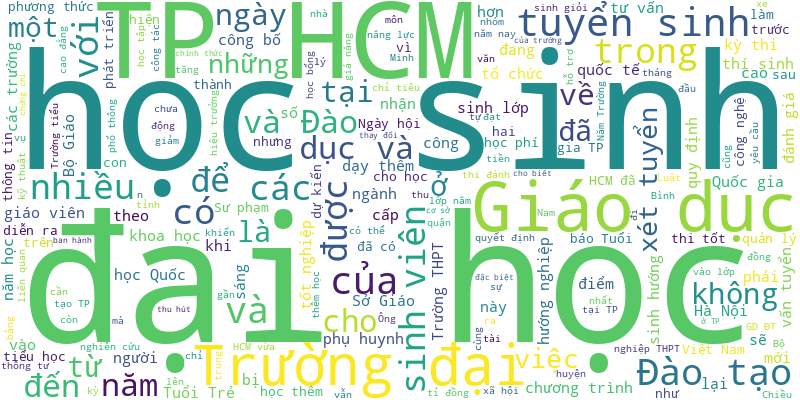
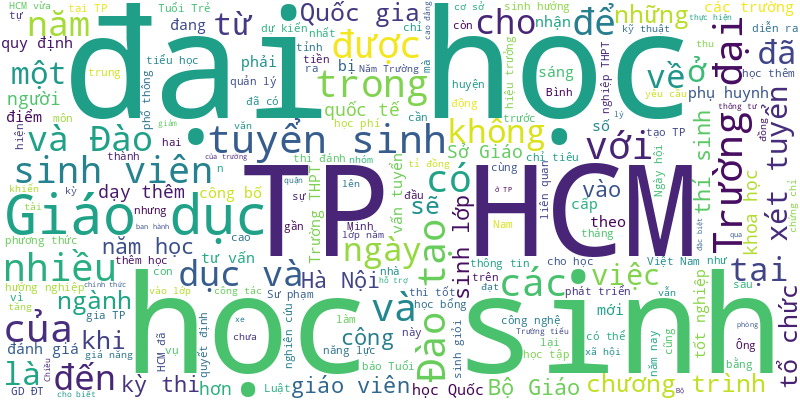
🍀 = 10%

diff --git a/README.md b/README.md
@@ -1,6 +1,17 @@
 # Tuoi Tre RSS 
 
 ## Giáo dục 
+- Bộ GD-ĐT đã có tờ trình Chính phủ báo cáo đánh giá sơ kết thực hiện Luật Giáo dục đại học giai đoạn 2019-2024.
+- Để xảy ra chuyện nữ sinh tiểu học hút thuốc lá trong sân trường, trách nhiệm quản lý, giáo dục trẻ là của nhà trường hay gia đình?
+- Nhiều bạn đọc cho biết thực tế vẫn phải 'xác nhận cư trú' trong tuyển sinh đầu cấp tại TP.HCM.
+- Ngày 4-4, Trường đại học Quốc tế Sài Gòn (SIU) tổ chức tọa đàm IAPP Vietnam Partnership Roundtable in HCMC.
+- Ngày 2-4, ông Tạ Hồng Lựu - phó giám đốc Sở Giáo dục và Đào tạo Thanh Hóa - vừa ký công văn gửi UBND huyện Quan Hóa, để chỉ đạo phòng chức năng xử lý vụ việc hiệu trưởng nói giáo viên là 'gái bao'.
+- "Cô mất Giang rồi, từ nay con mãi dừng lại tuổi 18, thương con vô cùng" - là dòng chia sẻ của cô Nguyễn Thị Bích Thảo, giáo viên Trường phổ thông dân tộc bán trú THCS Trà Sơn, khi cô học trò nhỏ bệnh tật qua đời.
+- Nhiều phụ huynh có con học lớp 5 tại Huế bày tỏ sự không đồng tình với tiêu chí tuyển sinh của một trường THCS hàng đầu trên địa bàn.
+- Nhiều năm liên tiếp, khối ngành kinh doanh, quản lý tuyển sinh áp đảo khối ngành kỹ thuật công nghệ. Phải chăng vì có quá nhiều trường đại học chuyên đào tạo kinh tế?
+- Hội đồng thi đánh giá năng lực Đại học Quốc gia TP.HCM đợt 1 năm 2025 tại cụm thi An Giang đã xin lỗi các thí sinh thi bị gần 20 phút làm bài do giám thị phát nhầm mã đề thi và sẽ miễn phí thi đợt 2 cho các em.
+- Một công thức quy đổi điểm tương đương không được xây dựng dựa trên cơ sở khoa học thì không thể giúp công tác tuyển sinh được công bằng hơn, mà có thể tạo thêm sự mất công bằng.
+- Năm nay, các trường Công an nhân dân sẽ không tuyển thẳng thí sinh có chứng chỉ IELTS từ 7.5, mà mở rộng xét tuyển thí sinh có chứng chỉ IELTS từ 5.5.
 - Điểm trung bình của hai đợt thi đánh giá năng lực tháng 3 tăng từ 3-5 điểm so với cùng thời điểm năm ngoái, GS.TS Nguyễn Tiến Thảo lý giải năm nay các thí sinh được lựa chọn phần thi khoa học hoặc tiếng Anh theo năng lực và sở trường.
 - Để phát triển nhân tài khoa học lĩnh vực khoa học cơ bản và khoa học liên ngành, Đại học Quốc gia TP.HCM đề xuất miễn học phí, cấp học bổng cho sinh viên, học viên sau đại học theo học các ngành khoa học cơ bản.
 - Bộ Giáo dục và Đào tạo vừa công bố danh mục các phương thức xét tuyển năm 2025 do bộ quy định, ít hơn 3 phương thức so với năm ngoái.
@@ -993,19 +1004,85 @@ Trường đại học Văn Lang được QS xếp hạng top 51-100 thế giớ
 - Chiều 4-12, học sinh Trường THCS Bình Trị Đông (quận Bình Tân, TP.HCM) đến tham quan và học tập thực tế tại Nhà máy mì Acecook Việt Nam.
 - Báo Tuổi Trẻ cùng nhà tài trợ đã trao 200 học bổng "Gieo mầm tri thức" cho học trò Đắk Lắk để các em "đi đến tương lai".
 - Sở Giáo dục và Đào tạo TP.HCM cho biết đã có tờ trình xin UBND TP tăng ngày nghỉ Tết Ất Tỵ cho học sinh thêm 2 ngày.
-- Sở Giáo dục và Đào tạo TP.HCM vừa có tờ trình về việc tăng thêm số ngày nghỉ Tết Ất Tỵ 2025 cho học sinh, làm phụ huynh phải thay đổi kế hoạch.
-- Theo lịch nghỉ Tết Ất Tỵ của nhiều trường đại học, đa số các trường cho sinh viên nghỉ Tết từ 2-3 tuần. Không ít trường cho sinh viên nghỉ 4-6 tuần.
-- Sở Giáo dục và Đào tạo TP.HCM cho biết đã có tờ trình UBND TP về việc thay đổi thời gian nghỉ Tết Nguyên đán 2025.
-- Dự thảo thông tư quy chế tuyển sinh trình độ đại học, cao đẳng ngành giáo dục mầm non của Bộ GD-ĐT quy định chỉ tiêu xét tuyển sớm do trường quy định nhưng không vượt quá 20% chỉ tiêu của từng ngành, nhóm ngành đào tạo.
-- Sau khi bị nhóm học sinh đánh hội đồng, nữ sinh L.V.G.N., 16 tuổi, học sinh lớp 11A6 Trường THPT Nông Cống 2, huyện Nông Cống, tỉnh Thanh Hóa, tổn thương sức khỏe 23%, hiện đi lại khó khăn, phải nghỉ học.
-- Nhiều bạn đọc, trong đó có những người đã và đang là sinh viên học tại Trường đại học Y khoa Phạm Ngọc Thạch (TP.HCM) đều bất bình với mức phí giữ xe hiện tại ở trường này.
-- Chủ tịch Hội đồng giải thưởng VinFuture, giáo sư Richard Henry Friend, chia sẻ giải thưởng năm nay nhận được nhiều đề cử xuất sắc, trong đó có một đề cử từ Việt Nam.
-- "Chỉ cần bạn nỗ lực, mọi thứ đều có thể làm được" - đó là triết lý mà Nguyễn Tuấn Nam (26 tuổi, quê Hà Tĩnh) luôn ghi nhớ để từ số 0 trở thành sinh viên xuất sắc tại Nhật Bản.
-- Để học sinh khiếm thị hình dung về hình học không gian, cô Phạm Thị Thanh Tâm cùng học trò dành 12 tháng nghiên cứu, làm bộ mô hình toán học.
-- Số sinh viên quốc tế đang học tập tại Việt Nam hiện còn quá thấp so với mục tiêu của Chính phủ đặt ra là đến năm 2020 phải thu hút khoảng 66.000 sinh viên quốc tế.
-- Dự thảo thông tư xác định chỉ tiêu tuyển sinh đại học do Bộ đưa ra lấy ý kiến có nhiều điểm mới so với thông tư trước đây. Lợi cũng có mà hại cũng nhiều.
 ![Edu](Edu.png)
 ## Thời Sự 
+- Sáng sớm 3-4, người phụ nữ đi xe đạp tập thể dục trên đường Phan Văn Khải (huyện Củ Chi, TP.HCM) đã va chạm với xe container, bị cán tử vong tại chỗ.
+- Tổng Bí thư Tô Lâm sẽ dẫn đầu đoàn đại biểu cấp cao sang Vientiane ngày 3-4 để viếng nguyên Chủ tịch Đảng Nhân dân cách mạng Lào, nguyên Chủ tịch nước Lào Khamtai Siphandone.
+- Tin tức đáng chú ý: Cơ quan thời tiết ứng dụng AI dự báo, cảnh báo thiên tai; Lưu ý khi đầu tư bất động sản theo tin sáp nhập; Tập đoàn R&amp;H khất nợ lãi lô trái phiếu 2.000 tỉ...
+- Hôm nay 3-4, thời tiết Bắc Bộ có sương mù, trời hửng nắng. Nam Bộ nắng nóng quay trở lại sau nhiều ngày mưa.
+- Ông Nguyễn Duy Ngọc - chủ nhiệm Ủy ban Kiểm tra Trung ương - đề nghị Đảng bộ, chính quyền và nhân dân tỉnh Khánh Hòa tiếp tục phát huy hiệu quả mọi nguồn lực, phấn đấu xây dựng tỉnh phát triển.
+- Nghe tiếng kêu của cô gái, nhóm thanh niên lao xuống sông cứu người này lên bờ an toàn.
+- Phó thủ tướng, Bộ trưởng Ngoại giao Bùi Thanh Sơn đang ở Nga để chuẩn bị cho chuyến thăm và dự lễ duyệt binh 80 năm Chiến tranh vệ quốc của Tổng Bí thư Tô Lâm.
+- Phó thủ tướng yêu cầu các cơ quan chức năng liên quan xác định nguyên nhân lúa chết bất thường cạnh cao tốc Cần Thơ - Cà Mau.
+- Phó thủ tướng thường trực Nguyễn Hòa Bình yêu cầu tập trung gỡ khó cho hạng mục bảo dưỡng, sửa chữa máy bay tại Cảng hàng không quốc tế Vân Đồn.
+- Chiều 2-4, trong khuôn khổ chuyến thăm cấp nhà nước đến Việt Nam, Nhà vua Vương quốc Bỉ Philippe và Hoàng hậu Mathilde cùng đoàn đại biểu cấp cao của Vương quốc Bỉ đã thăm và làm việc tại TP Hải Phòng.
+- Các khối diễu binh, diễu hành của Bộ Quốc phòng sẽ di chuyển vào miền Nam thành năm đoàn, trong đó có bốn đoàn hành quân bằng tàu hỏa.
+- Phó thủ tướng Nguyễn Hòa Bình cho biết công tác tinh gọn và sắp xếp lại bộ máy nhằm phát huy thế mạnh cho các địa phương.
+- Để xảy ra chuyện nữ sinh tiểu học hút thuốc lá trong sân trường, trách nhiệm quản lý, giáo dục trẻ là của nhà trường hay gia đình?
+- Hiện nhiều cư dân các phường ở TP Nha Trang không có 'dự án treo' cũng bị 'treo' cấp phép xây dựng trên đất ở hợp pháp, chỉ có thể xây nhà tạm.
+- Nam thanh niên ở tỉnh Quảng Nam đã đột nhập nhà dân, đục phá két sắt, trộm cắp hàng chục nhẫn vàng, dây chuyền, tiền mặt với tổng trị giá hơn 1 tỉ đồng.
+- Chủ tịch UBND TP.HCM Nguyễn Văn Được nhìn nhận TP.HCM cần phấn đấu nhiều để tăng trưởng liên tục, TP.HCM không nên chủ quan.
+- Phải tin tưởng vào kinh tế tư nhân, đặt niềm tin, tạo động lực, truyền cảm hứng cho họ phát triển, khuyến khích mọi người dân làm giàu chính đáng.
+- Người dân ở xã Thạnh Hòa (huyện Giồng Riềng, tỉnh Kiên Giang) phấn khởi khi nuôi cá chạch lấu trong ao đất bán với giá cao khoảng 250.000 đồng/kg, mang lại nguồn lợi nhuận hấp dẫn.
+- Chiều 2-4, hai tuyến quốc lộ huyết mạch về miền Tây là tuyến quốc lộ 60 và quốc lộ 1, đoạn qua TP Mỹ Tho, tỉnh Tiền Giang bị ngập nặng do triều cường khiến người dân đi lại khó khăn, kẹt xe kéo dài.
+- Bí thư Nguyễn Văn Nên cho rằng tinh gọn bộ máy phải đảm bảo hoạt động thông suốt.
+- Có ý kiến đề xuất do chung dòng Vàm Cỏ Đông, có thể lấy tên này đặt luôn cho hai tỉnh Long An và Tây Ninh khi sáp nhập.
+- Nhà vua Vương quốc Bỉ Philippe và Hoàng hậu Mathilde đã tham dự lễ khai trương tổ hợp văn phòng dịch vụ KCN Bắc Tiền Phong tại Quảng Yên.
+- Sau nhiều năm đề nghị UBND huyện Tương Dương, Nghệ An trả nợ gần 45 triệu đồng không được, một chủ nhà hàng lên mạng xã hội kêu cứu.
+- Bí thư Nguyễn Văn Nên cho rằng động đất ở Myanmar cũng là cảnh báo mà các cơ quan quản lý ở TP.HCM phải lưu ý với các công trình xây dựng.
+- Đây là ý kiến Viện trưởng Viện Nghiên cứu phát triển TP.HCM Trương Minh Huy Vũ nêu ra, về các cực tăng trưởng kinh tế của TP.HCM.
+- Đề án yêu cầu ban hành chủ trương và kết luận phân loại xử lý cán bộ, đảng viên vi phạm theo hướng bảo vệ những cán bộ dám nghĩ dám làm.
+- Một dãy nhà liền kề cặp ven sông ở phường Vĩnh Hiệp (TP Rạch Giá, Kiên Giang) chiều nay bất ngờ xảy ra cháy lớn.
+- Các nữ chiến sĩ bước vào giai đoạn nước rút tập luyện, chuẩn bị cho cuộc diễu binh dịp 30-4 sắp tới.
+- Thành phố Đà Lạt tôn vinh 50 gia đình có công với cách mạng nhân kỷ niệm 50 năm Ngày giải phóng Đà Lạt (3-4-1975).
+- Bộ Xây dựng lấy ý kiến sửa nghị định theo hướng bổ sung máy bay do nhà chức trách hàng không Trung Quốc cấp giấy chứng nhận.
+- Ông Vũ Quyết Tiến được Ban Bí thư Trung ương Đảng chuẩn y giữ chức phó bí thư Tỉnh ủy Quảng Ninh.
+- Đoạn clip ghi cảnh một chiếc xe tải chở hàng ở Huế liều lĩnh tông gãy gác chắn, lao qua đường sắt khi có đoàn tàu hỏa đang lao tới với tốc độ cao.
+- Chiều 2-4, đội cứu nạn, cứu hộ Bộ Công an Việt Nam tiếp tục tìm thấy một nạn nhân nữ đã tử vong trong ngôi nhà 4 tầng ở thị trấn Zabu Thiri (Myanmar).
+- Tại buổi làm việc với chính quyền tỉnh Quảng Trị, Đại sứ Mỹ Marc E. Knapper cho biết đang đề xuất cấp thêm ngân sách cho các hoạt động rà phá bom mìn sau năm 2025.
+- Công an phường Đông Lương (TP Đông Hà, tỉnh Quảng Trị) đã triệu tập 3 thanh niên chặn xe taxi Xanh SM đe dọa và đập phá xe đến làm việc.
+- Thiếu tướng Nguyễn Đình Hoàn đã đến kiểm tra hiện trường vụ cháy tại phường Xóm Củi, quận 8, TP.HCM.
+- Sau hơn 124 giờ bị chôn vùi, anh Htet Maung Maung đã được lực lượng cứu hộ của Việt Nam, Myanmar, Thổ Nhĩ Kỳ đưa lên xe cấp cứu.
+- Ngày 2-4, Tỉnh ủy Quảng Nam tổ chức hội nghị lần thứ 19 đánh giá tình hình các mặt công tác quý 1-2025, triển khai nhiệm vụ trọng tâm quý 2.
+- Sau nhiều phản ánh của người dân và cử tri, đến nay việc khắc phục tình trạng cây xanh chết khô, trụi lá trên tuyến đường 500 tỉ đồng ở Đà Nẵng đang được khắc phục.
+- Bia Ma Nhai khắc vào núi đá có niên đại gần 700 năm ở tỉnh Nghệ An ghi lại chiến công của nhà Trần trong việc giữ gìn bờ cõi, chinh phạt ngoại xâm.
+- Tỉnh Quảng Nam yêu cầu báo cáo danh sách cán bộ, công chức có đơn đăng ký nghỉ hưu trước tuổi, nghỉ thôi việc.
+- Liên quan vụ hành hung bác sĩ tại đơn vị hồi sức cấp cứu thuộc Trung tâm Y tế huyện Chư Sê, tỉnh Gia Lai vào ngày 31-3, Cục Quản lý khám chữa bệnh (Bộ Y tế) vừa có công văn gửi giám đốc Sở Y tế tỉnh này.
+- Sở Giao thông công chánh và Sở Xây dựng đã phối hợp xử lý nghiêm các nhà thầu thi công cải tạo vỉa hè không đúng quy trình, ảnh hưởng cây xanh.
+- Sau nhiều giờ nỗ lực giải cứu, công binh Việt Nam và lực lượng cứu hộ các nước đã đưa được thanh niên 26 tuổi ra ngoài sau hơn 5 ngày bị mắc kẹt.
+- Công an đã mời 3 người liên quan vụ chặn xe, đe dọa và xô xát khiến bé trai 2 tuổi ở Đồng Nai bị thương.
+- Thành phố Cần Thơ giữ nguyên quyết định thu hồi đất mà chủ đầu tư được cho thuê để thực hiện dự án thiên đường nước Cần Thơ.
+- Chỉ trong hai ngày, hai con cá voi cỡ nhỏ đã liên tiếp dạt vào bờ biển Nhật Lệ và Bảo Ninh (TP Đồng Hới, Quảng Bình) khiến ngư dân địa phương vô cùng lo lắng.
+- Thay mặt Chính phủ, Thủ tướng Chính phủ, Phó thủ tướng thường trực Nguyễn Hòa Bình gửi lời thăm hỏi, chia buồn sâu sắc tới thân nhân, gia đình người bị nạn trong vụ cháy nhà dân tại Xóm Củi, TP.HCM.
+- Liên quan đến đại án cây xanh của Công ty cây xanh Công Minh tại Quảng Bình, đến nay công an tỉnh này đã khởi tố tổng cộng 22 bị can liên quan.
+- Đồng Nai kiến nghị Thủ tướng xem xét chấp thuận phương án đầu tư xây dựng cầu Mã Đà và đường kết nối Bình Phước quy mô 4 làn xe (giai đoạn 1).
+- Sáng 2-4, tại Trường Quân khu 7 (quận 12, TP.HCM), 7 khối chiến sĩ đã bước vào buổi hợp luyện cuối cùng trước khi tập trung về Biên Hòa cho đợt tổng hợp luyện quan trọng chuẩn bị cho lễ diễu binh dịp 30-4 sắp tới.
+- Các lực lượng cứu hộ Việt Nam đang tiếp cận giải cứu 1 nạn nhân còn sống, có thể nói chuyện được tại Bệnh viện Ottara Thiri, thủ đô Naypyidaw, Myanmar.
+- Sáng 2-4, Tổng Bí thư Tô Lâm đã chủ trì hội nghị Quân ủy Trung ương lần thứ 13 để xem xét, cho ý kiến vào đề án về tổ chức quân sự địa phương tinh, gọn, mạnh.
+- Thứ trưởng Bộ Ngoại giao Đỗ Hùng Việt và Đại sứ Mỹ Marc E. Knapper thăm hiện trường hủy nổ bom mìn của tổ chức PeaceTrees Vietnam, cùng chứng kiến những công việc tỉ mẫn để tìm kiếm quân nhân Mỹ mất tích trong chiến tranh.
+- Người dân phường Hòa Hiệp Nam (thị xã Đông Hòa, Phú Yên) phát hiện một thi thể nam không đầu, ở thời kỳ phân hủy nặng trôi dạt vào bờ biển địa phương.
+- Chính phủ ban hành nghị định thí điểm thực hiện dự án nhà ở thương mại thông qua thỏa thuận về nhận quyền sử dụng đất hoặc đang có quyền sử dụng đất.
+- Luật Bảo hiểm y tế sửa đổi quy định không chi trả chi phí khám chữa bệnh bảo hiểm y tế cho một số trường hợp.
+- Ghi nhận của Tuổi Trẻ Online ngày 2-4 tại một số chi nhánh của Trung tâm phục vụ hành chính công Hà Nội, ngay từ sáng sớm đã có rất đông người dân xếp hàng dài đợi lấy số thứ tự để xử lý thủ tục hành chính.
+- Bà Trần Thị Chánh - mẹ và bà ngoại của 3 nạn nhân xấu số trong vụ cháy nhà tại quận 8 - ngồi bần thần, rớm nước mắt, miệng thì thầm 'thấy cháy mà không làm được gì cô chú ơi, con và cháu tôi còn trong đó'.
+- Giấy chứng nhận đã cấp vi phạm thời hạn sử dụng đất đối với đất sản xuất kinh doanh tại Đà Nẵng nay phải xác định lại thành 50 năm sẽ được thực hiện theo trình tự ra sao?
+- Tỉnh Bà Rịa - Vũng Tàu dự kiến sẽ dành hơn 350 tỉ đồng để giải quyết chế độ cho hơn 400 công chức, viên chức, người lao động nghỉ hưu trước tuổi, thôi việc.
+- Bộ trưởng Bộ Công an đã quyết định thưởng đột xuất cho các phòng nghiệp vụ của Công an tỉnh Quảng Nam về thành tích xuất sắc trong điều tra, nhanh chóng bắt giữ người giết vợ, phi tang xác xuống biển.
+- Các thủ tục về triển khai dự án đường sắt Thủ Thiêm - Long Thành, đường sắt kết nối trung tâm với Cần Giờ đang được TP.HCM đẩy nhanh tiến độ.
+- UBND TP.HCM vừa ban hành kế hoạch tổng thể lễ kỷ niệm, diễu binh, diễu hành và các hoạt động kỷ niệm 50 năm Ngày Giải phóng miền Nam, thống nhất đất nước (30-4-1975 - 30-4-2025).
+- Doanh nghiệp và hiệp hội Việt Nam xuất khẩu sang Mỹ kỳ vọng quan hệ thương mại tốt đẹp và cơ cấu không cạnh tranh trực tiếp sẽ giúp hàng hóa tránh thuế đối ứng từ chính quyền Trump.
+- Nhiều ý kiến bày tỏ ủng hộ chủ trương sáp nhập tỉnh thành, đồng thời hiến kế để Tây Nguyên và Nam Trung Bộ kết nối rừng với biển, mở ra không gian phát triển mới.
+- Sau hơn nửa ngày xảy ra vụ việc, nghi can bị cảnh sát bắt giữ tại vị trí cách nơi xảy ra sự việc khoảng 400km.
+- Ban Thường vụ Tỉnh ủy Quảng Nam ban hành kế hoạch tiếp tục sắp xếp tổ chức bộ máy của hệ thống chính trị theo các kết luận số 126, số 127 của Bộ Chính trị, Ban Bí thư.
+- Tuyến đường 23-9 bị tụt sâu, nguy cơ trôi cả mảng đất lớn xuống dãy dân cư ở phía dưới chân ta luy, đe dọa đến cuộc sống của 31 hộ phường Pom Hán, thành phố Lào Cai.
+- Hiện trường vụ cháy nhà ở quận 8 (TP.HCM) tan hoang, một căn nhà bị thiêu rụi hoàn toàn. Những căn nhà xung quanh cũng chịu ảnh hưởng nặng nề, mái tôn cong vênh, biến dạng sau cơn lửa dữ.
+- Theo thông tin của đoàn công tác cứu hộ Bộ Quốc phòng, hôm nay 2-4, các lực lượng tiếp tục tìm kiếm khu vực được thông tin có khoảng 40 nạn nhân bị vùi lấp sau trận động đất ở Myanmar.
+- Phòng Cảnh sát giao thông Công an tỉnh Quảng Nam đã lập biên bản vi phạm hành chính hai người Hàn Quốc buông hai tay khi lái mô tô phân khối lớn.
+- Ngoài phê bình đích danh các đơn vị chậm tiến độ thi công dự án thành phần 4 cao tốc Châu Đốc - Cần Thơ - Sóc Trăng, chủ tịch UBND tỉnh Sóc Trăng sẽ kiên quyết xử lý, thay thế nhà thầu yếu kém, không thực hiện đúng trách nhiệm.
+- Tăng cường kết nối với Vương quốc Bỉ, Việt Nam không chỉ mở rộng cánh cửa vào thị trường châu Âu mà còn khẳng định vai trò chiến lược tại khu vực thông qua quan hệ đối tác với quốc gia nhỏ bé nhưng giàu ảnh hưởng này.
+- Rái cá vuốt bé là loài vật quý hiếm, cần được bảo vệ và nằm trong sách đỏ Việt Nam. Chúng hiện còn sinh sống trong tự nhiên ở Vườn quốc gia Phú Quốc.
+- Ông Đỗ Vinh Quang, con trai bầu Hiển, trở thành chủ tịch hội đồng quản trị hãng hàng không Vietravel Airlines.
+- Bộ trưởng Bộ Nội vụ Phạm Thị Thanh Trà cho hay từ ngày 1-5, 63 tỉnh, thành phố sẽ gửi đề án sắp xếp về bộ để tiếp đó trình Ủy ban Thường vụ Quốc hội, Quốc hội.
 - Sáng 2-4, ông Nguyễn Văn Được, chủ tịch UBND TP.HCM, có mặt tại hiện trường vụ cháy nhà ở Xóm Củi, quận 8 chỉ đạo khắc phục hậu quả, khẩn trương điều tra vụ cháy.
 - Bộ Nội vụ đang dự thảo thông tư quy định thời điểm, việc tính và xác định hưởng lương hưu với từng trường hợp hưu trí theo Luật Bảo hiểm xã hội 2024 mới.
 - Đến hôm qua 1-4 đã có 280 lượt bạn đọc đóng góp ủng hộ người dân Myanmar bị ảnh hưởng bởi động đất với tổng số tiền hơn 350 triệu đồng.
@@ -1929,85 +2006,9 @@ Trường đại học Văn Lang được QS xếp hạng top 51-100 thế giớ
 - Công an tỉnh Đắk Lắk đã có quyết định kiểm tra nhà máy sản xuất kẹo rau được các TikToker nổi tiếng quảng cáo lố trên mạng, gây hiểu nhầm thời gian qua.
 - Tỉnh Quảng Trị kiến nghị Thủ tướng mở rộng không gian đảo, nâng cấp âu tàu, cấp điện và nước ngọt từ đất liền…
 - Chất xơ là nhóm thực phẩm không thể thiếu trong bữa ăn hằng ngày, điều này không chỉ giúp cho việc tiêu hóa tốt hơn mà còn cung cấp nhiều lợi ích khác.
-- Đại diện Phòng cảnh sát giao thông Công an TP.HCM cho biết từ ngày 17-3 sẽ tổ chức tiếp nhận hồ sơ đổi, cấp lại giấy phép lái xe tại 22 điểm phường, xã...
-- Người dân có thể phản ánh những vị trí rác, người vứt rác bừa bãi bằng cách gửi hình ảnh qua ứng dụng điện thoại hoặc nhóm Zalo của TP Thủ Đức.
-- Người dân ở xóm Khe Sài 2, xã Nghĩa Lộc, huyện Nghĩa Đàn (Nghệ An) bày tỏ lo lắng khi nguồn nước suối có dấu hiệu ô nhiễm, cá trong ao nuôi chết bất thường.
-- Ngày 14-3, trang web của Liên hợp quốc đã đăng các thông tin chi tiết về nội dung lưu chiểu hải đồ và đường cơ sở của Việt Nam tại vịnh Bắc Bộ.
-- Tổng Bí thư Tô Lâm đề nghị tiếp tục rà soát chỉnh sửa, hoàn thiện để Báo cáo chính trị thực sự là 'văn bia', là ngọn đuốc soi đường.
-- Bà Nguyễn Thị Định là nữ tướng đầu tiên của Quân đội nhân dân Việt Nam, đã truyền cảm hứng mạnh mẽ về ý chí bất khuất của người phụ nữ Việt Nam.
-- Trong tiến trình triển khai, dự án đường tránh Đông TP Buôn Ma Thuột (Đắk Lắk) xảy ra nhiều sai phạm, đội vốn gần 350 tỉ đồng.
-- 4 học sinh ở xã Krông Pa (huyện Sơn Hòa, tỉnh Phú Yên), trong đó có hai anh em sinh đôi, rủ nhau đi bắt cá dưới sông Ba và không may cả 4 em bị chết đuối.
-- Tuyến đường Chợ Mới - Bắc Kạn dài 28,8km, quy mô đường cao tốc 4 làn xe, được khởi công sáng 15-3, tiến độ hoàn thành trong 2 năm.
-- Người phụ nữ thản nhiên bước trên đường ray để tạo dáng, mặc cho lái tàu phải phanh gấp và kéo còi liên tục.
-- Thời tiết TP.HCM và các tỉnh Nam Bộ đang trong đợt nắng nóng diện rộng, buổi trưa trời oi bức như ‘đổ lửa'.
-- Thật hồi hộp khi qua các giao lộ không có đèn đếm ngược, chẳng biết đâu mà lần.
-- Đắk Lắk chưa thực hiện quy trình miễn nhiệm phó giám đốc phụ trách 'nhiều lần nhận tiền từ nhà thầu', vì phải chờ kết quả thanh tra đối với một dự án khác.
-- UBND TP.HCM vừa chấp thuận đề xuất tiếp tục đấu giá 3.790 căn hộ thuộc khu 38,4ha trong khu đô thị mới Thủ Thiêm, với công năng là nhà ở thương mại.
-- Hai du khách leo núi Cô Tiên (TP Nha Trang, Khánh Hòa) vào ban đêm thì đi lạc, phải nhờ cứu hộ ứng cứu.
-- Sau khi trồng hoa ngũ sắc trên 1,6km đường Nguyễn Văn Trỗi, UBND quận Phú Nhuận tổ chức thu gom miễn phí rác thải cồng kềnh cho người dân.
-- Thanh tra Chính phủ vừa ban hành kết luận thanh tra, đề nghị Bộ Công an xem xét điều tra các hành vi vi phạm pháp luật tại dự án khu nhà ở tại Vĩnh Long.
-- Khi chủ tọa hỏi về động cơ khiến bị cáo sát hại người tình, Thông biện minh cho rằng vì nóng giận nhất thời. Tuy nhiên, lời khai của Thông đã bị tòa bác bỏ.
-- Ban quản lý Khu bảo tồn Phú Mỹ tiếp tục phát hiện 9 con sếu đầu đỏ về kiếm ăn cạnh ruộng lúa của người dân, 4 con ngủ lại qua đêm.
-- Mạng viễn thông VinaPhone trên địa bàn tỉnh tiền Giang hầu như bị tê liệt, không thể nào liên lạc được do cháy tại trụ sở VNPT Tiền Giang.
-- Trang trại nuôi 12.000 con gà chuẩn bị đến thời kỳ xuất bán ra thị trường nhưng gặp sự cố chập điện trong đêm, khiến gần 8.000 con gà bị chết.
-- Tại TP.HCM, từ lâu nhiều xã phường có dân số hơn 100.000 dân. Các xã phường này vận hành ra sao?
-- Nhiều nhà xe khách vẫn cố tình chạy sai lịch trình tuyến cố định đón khách, bị cảnh sát giao thông lập biên bản xử phạt, tước phù hiệu 2 tháng.
-- Bộ Quốc phòng đề xuất các tiêu chí đối với chức danh chuyên gia, nhà khoa học đầu ngành, tổng công trình sư trong lĩnh vực công nghiệp quốc phòng, an ninh.
-- Một số tin tức đáng chú ý: Kho bạc Nhà nước liên tục mua vào hàng trăm triệu USD; Sếp BCG Energy liên tiếp xin nghỉ; Cử tri kiến nghị giảm giá vắc xin sốt xuất huyết...
-- Hôm nay 15-3, thời tiết các tỉnh Bắc Bộ sẽ đón không khí lạnh, trong khi đó Nam Bộ trời nắng nóng oi bức, khô rát.
-- Cú va chạm giữa xe tải và hai xe máy trên đường Mê Linh (Hà Nội) vào tối 14-3 làm hai người chết và một nạn nhân bị gãy chân.
-- Theo tính toán sơ bộ, để đầu tư cao tốc Quy Nhơn - Pleiku dài khoảng 123km, quy mô 4 làn xe cần 38.917 tỉ đồng từ vốn ngân sách trung ương và địa phương, khởi công năm 2025.
-- HĐND TP Hải Phòng đã thông qua nghị quyết về việc miễn nhiệm chức danh phó chủ tịch UBND thành phố, nhiệm kỳ 2021 - 2026 đối với ông Lê Khắc Nam.
-- Các cựu chiến binh Trường Sa ở Phú Yên và các tỉnh, thành gặp nhau tại TP Tuy Hòa để tưởng niệm 64 liệt sĩ Gạc Ma.
-- Đoàn công tác TP.HCM vừa có chuyến thăm, làm việc và trao tặng tỉnh Cà Mau gần 7 tỉ đồng thực hiện công tác an sinh xã hội, với quyết tâm chung tay cùng Cà Mau và không để ai bị bỏ lại phía sau.
-- Cư dân của nhiều tòa nhà chung cư cao cấp ở Hà Nội kêu trời, vì cột khói của công ty dệt thường xuyên tạt thẳng vào các căn hộ.
-- Kiên Giang khởi động và gấp rút đầu tư hạ tầng giao thông hàng không, thủy, bộ như sân bay Phú Quốc, cảng quốc tế An Thới và khu tổ hợp đa chức năng APEC (dự án lấn biển 57ha) để phục vụ Hội nghị thượng đỉnh APEC 2027 ở Phú Quốc.
-- Chủ đầu tư dự án thành phần 3 cao tốc Khánh Hòa - Buôn Ma Thuột cho phép nhà thầu mua vật liệu ngoài để đẩy nhanh các gói chậm tiến độ, nhưng yêu cầu phải đảm bảo chất lượng và không tăng giá.
-- Ban Bí thư quyết định thi hành kỷ luật khai trừ ra khỏi Đảng đối với ông Hoàng Văn Thắng và ông Nguyễn Thành Rum.
-- Bên cạnh gia đình chính sách, nữ giới, hộ nghèo, hộ cận nghèo, cán bộ năng động, dám nghĩ dám làm được ưu tiên thuê nhà ở xã hội.
-- Hà Nội thống nhất sẽ phá dỡ tòa nhà Hàm cá mập trước ngày 30-4-2025 để xây dựng quảng trường Đông Kinh - Nghĩa Thục rộng 12.000m².
-- Thành phố Hải Phòng đã có văn bản chỉ đạo làm rõ thông tin báo Tuổi Trẻ đăng tải về lách luật dạy thêm ở điểm trường xí nghiệp.
-- Nhà chức trách ở Hà Nội đã lập biên bản sự việc liên quan tới Công ty cổ phần Tập đoàn Chị Em Rọt (CER) tổ chức gặp mặt báo chí cung cấp thông tin về những lùm xùm vừa qua.
-- Nữ tài xế người Nam Định đã lái xe tải vượt đèn đỏ 7 lần trong 2 tuần, bị Công an Thái Bình xử phạt 133 triệu đồng.
-- Cảnh sát giao thông sẽ tập trung tham mưu, đề xuất với UBND cấp tỉnh chỉ đạo đơn vị chức năng hoàn thiện hạ tầng giao thông. Trong đó sẽ khôi phục, mở rộng hệ thống đồng hồ đếm ngược tín hiệu đèn giao thông.
-- Sở Giao thông công chánh TP.HCM có văn bản gửi Ban An toàn giao thông, Công ty TNHH Saigon Public Transport (Saigon PT) về hoạt động xe điện 4 bánh ở TP.HCM.
-- Các nhà thầu phải đẩy nhanh tiến độ, thi công ngày đêm đưa dự án cầu Rạch Miễu 2 hoàn thành sớm, nhằm đảm bảo người dân có thể đi lại trên cây cầu này trong ngày lễ Quốc khánh 2-9.
-- Để triển khai quy trình sửa Hiến pháp, các luật, Chủ tịch Quốc hội Trần Thanh Mẫn cho biết dự kiến kỳ họp thứ 9 sẽ khai mạc sớm từ đầu tháng 5.
-- Sau khi triển khai mô hình tổ chức bộ máy mới, Công an tỉnh Bình Thuận vừa có thông báo thay đổi trụ sở làm việc của một số phòng nghiệp vụ.
-- Từng có nhiều phương án để kết nối giao thông cho hai tỉnh Đồng Nai - Bình Phước, nhưng đến nay vẫn đang khảo sát.
-- Được công nhận là đô thị loại I, TP Phú Quốc (Kiên Giang) không chỉ khẳng định những thành tựu vượt bậc trong phát triển kinh tế mà còn khởi đầu mới với những không gian phát triển mới, vươn mình phát triển thành đô thị biển đảo, mang tầm cỡ quốc tế.
-- Hành vi phản cảm hít xà đơn trên metro có thể bị xử lý hình sự hay không?
-- Gia đình thân nhân liệt sĩ hy sinh ở đảo Gạc Ma được Hội Hỗ trợ gia đình liệt sĩ tỉnh Nghệ An trao các sổ tiết kiệm.
-- Đà Nẵng phát động ủng hộ xây dựng 100 nhà đại đoàn kết cho hộ nghèo, hộ có hoàn cảnh đặc biệt khó khăn trong vùng căn cứ cách mạng Quảng Nam - Đà Nẵng thời kháng chiến.
-- 20 cựu binh Gạc Ma từ các tỉnh Nghệ An, Hà Tĩnh, Quảng Bình, Quảng Trị đã cùng về trước phần mộ anh hùng liệt sĩ Trần Văn Phương, để tưởng nhớ 64 đồng đội đang nằm lại Gạc Ma 37 năm qua.
-- Sở Giao thông công chánh TP.HCM đề xuất thu gom rác trên một đoạn sông Sài Gòn để bảo đảm vệ sinh môi trường bến Bạch Đằng, phục vụ du lịch dịp 30-4.
-- An Giang sẽ tổ chức nhiều sự kiện lớn nhân dịp đón bằng công nhận của UNESCO công nhận Lễ hội Vía Bà Chúa Xứ núi Sam là di sản văn hóa phi vật thể nhân loại.
-- Chiều 14-3, Đại tướng Nguyễn Tân Cương, tổng tham mưu trưởng, thứ trưởng Bộ Quốc phòng đã trình Ủy ban Thường vụ Quốc hội dự Luật Tình trạng khẩn cấp.
-- Thời gian cho đợt thử nghiệm bắt đầu từ 4h ngày 24-4. Dự kiến thời gian khai thác chính thức từ ngày 5-5.
-- Cùng với dự kiến bắn pháo hoa, thành phố Cần Thơ còn tổ chức các hoạt động thiết thực, ý nghĩa vào dịp lễ 30-4.
-- Phản ánh đến Tuổi Trẻ Online, nhiều bạn đọc cho biết nhiều người vẫn vô tư chạy xe ngược chiều trên cầu cũng như trên quốc lộ ở TP.HCM.
-- Nữ giáo viên bức xúc vì chồng mình cùng một nữ giáo viên khác vi phạm luật hôn nhân gia đình, hiện vẫn tiếp tục dạy chung trường.
-- Tính đến cuối năm 2024, cả nước có hơn 11.000 cơ sở nhà đất công để hoang, sử dụng sai mục đích và không hiệu quả.
-- Trong lúc người phụ nữ đang dắt xe máy chuẩn bị rời khỏi nhà, người đàn ông từ phía sau rút dao ra đâm chết người phụ nữ.
-- Sau phản ánh của Tuổi Trẻ Online, UBND TP Nha Trang yêu cầu tất cả xã, phường tăng cường kiểm tra trật tự lòng đường.
-- Bạn đọc tiếp tục phản ánh đến Tuổi Trẻ Online nhiều nhà xe khách giường nằm chạy sai lịch trình, đón khách tại văn phòng diễn ra như bến xe.
-- Ngày 14-3, rất đông người dân, du khách đã đến tưởng niệm 64 chiến sĩ hy sinh để giữ đảo Gạc Ma (Trường Sa) 37 năm trước.
-- Thêm 3 liệt sĩ Quảng Nam - Đà Nẵng hy sinh trong trận hải chiến ở Gạc Ma 1988 được khắc tên ở đình Nại Nam (quận Hải Châu, Đà Nẵng).
-- Thượng sĩ cảnh sát cơ động Nguyễn Ngọc Minh Nhật hy sinh khi làm nhiệm vụ được đề xuất công nhận liệt sĩ.
-- Toàn bộ nhôm, thép được bán vào Mỹ sẽ chịu thuế 25%, không ngoại lệ, không miễn trừ kể từ ngày 12-3.
-- Tại tỉnh Hà Tĩnh vừa xảy ra vụ tai nạn nghiêm trọng giữa xe tải và xe máy khiến hai mẹ con thiệt mạng thương tâm.
-- Những ngày qua TP.HCM và các tỉnh Nam Bộ có nắng nóng diện rộng, dự báo những ngày tới nhiệt độ còn cao hơn nữa.
-- Dự kiến Quỹ giảm thiểu thiệt hại tai nạn giao thông sẽ chi hỗ trợ tối đa 10 triệu đồng với 1 người chết, 5 triệu đồng đối với 1 người bị thương.
-- Sáng 14-3, Ban Quản lý dự án đầu tư xây dựng các công trình giao thông TP.HCM khởi công giai đoạn 3 dự án nút giao Mỹ Thủy.
-- Singapore bắt đầu bằng chữ S. Việt Nam cũng nằm trên dải đất hình chữ S. Những bài học lớn từ sự thành công của Singapore với bảy chữ S.
-- Thông tin được Thủ tướng Phạm Minh Chính nêu khi tiếp Đại sứ Mỹ tại Việt Nam Marc Knapper ngày 13-3. Trong đó ông khẳng định Việt Nam đang "tích cực giải quyết" các vấn đề Mỹ quan tâm về kinh tế, thương mại và đầu tư.
-- Sự kiện Gạc Ma ngày 14-3-1988 bi hùng đã trôi qua 37 năm, nhưng trong tâm tưởng các cựu binh, 64 đồng đội anh dũng hy sinh như mới hôm qua.
-- Hôm nay 14-3, thời tiết Bắc Bộ tiếp tục duy trì trạng thái nóng nhưng ẩm ướt, Nam Bộ ngày nắng, có nơi nắng nóng.
-- Đây là yêu cầu của Phó thủ tướng Trần Hồng Hà tại cuộc họp nghe báo cáo về xây dựng và lộ trình áp dụng các quy chuẩn Việt Nam về khí thải phương tiện giao thông cơ giới đường bộ đang lưu hành, ngày 13-3.
-- Sau gần một tuần diễn ra, Lễ hội cà phê Buôn Ma Thuột lần thứ 9 năm 2025 đã khép lại bằng đêm nghệ thuật hoành tráng tại Quảng trường 10-3.
-- Trong đề án Chính phủ trình có khoảng 1/3 nhiệm vụ của huyện chuyển lên tỉnh, 2/3 chuyển xuống xã - xuống cơ sở.
 ![New](News.png)
 ## Nhịp sống số 
+- Sau khi nhấp vào liên kết, hệ thống của người dùng ngay lập tức bị xâm nhập, ngay cả khi người đó không thực hiện thêm bất cứ thao tác nào.
 - Nhiều thông tin cá nhân, tài liệu doanh nghiệp Việt Nam bị rao bán rộng rãi trên các nền tảng mạng, gây tổng thiệt hại ước tính lên đến 11 triệu USD.
 - Văn phòng An ninh quốc gia của tổng thống Hàn Quốc vừa thành lập một nhóm tư vấn nhằm điều phối các biện pháp ứng phó trước những mối đe dọa an ninh do trí tuệ nhân tạo (AI) gây ra.
 - RedNote (Tiểu hồng thư) bị cáo buộc thu thập dữ liệu người dùng vượt mức cần thiết, khiến nhiều người dùng lo ngại bị xâm phạm quyền riêng tư và mất an toàn thông tin cá nhân.
@@ -3006,5 +3007,4 @@ Trường đại học Văn Lang được QS xếp hạng top 51-100 thế giớ
 - TTO - Việc ứng dụng công nghệ trí tuệ nhân tạo (AI) trong ngành công nghiệp chăm sóc người già ở Nhật đang góp phần giảm bớt áp lực đáng kể cho thực trạng thiếu nhân lực ngành này.
 - TTO - Một vụ tấn công mạng vừa xảy ra tại một sàn giao dịch tiền điện tử ít tiếng tăm tại Hàn Quốc đã làm “bốc hơi” hàng tỉ USD giá trị vốn hóa thị trường của bitcoin và nhiều loại tiền tiện tử khác.
 - TTO - Mạng xã hội Facebook vừa đăng thông tin tuyển dụng “các chuyên gia thẩm định độ tin cậy của tin tức”, động thái cho thấy công ty này đang có thêm những nỗ lực trong cuộc chiến chống tin giả.
-- TTO - Tập đoàn Microsoft vừa đặt thành công một trung tâm dữ liệu mới nhất của họ dưới đáy biển ở ngoài khơi Scotland với hy vọng sẽ sớm có thêm những trung tâm tương tự trong tương lai.
 ![life](Life.png)
